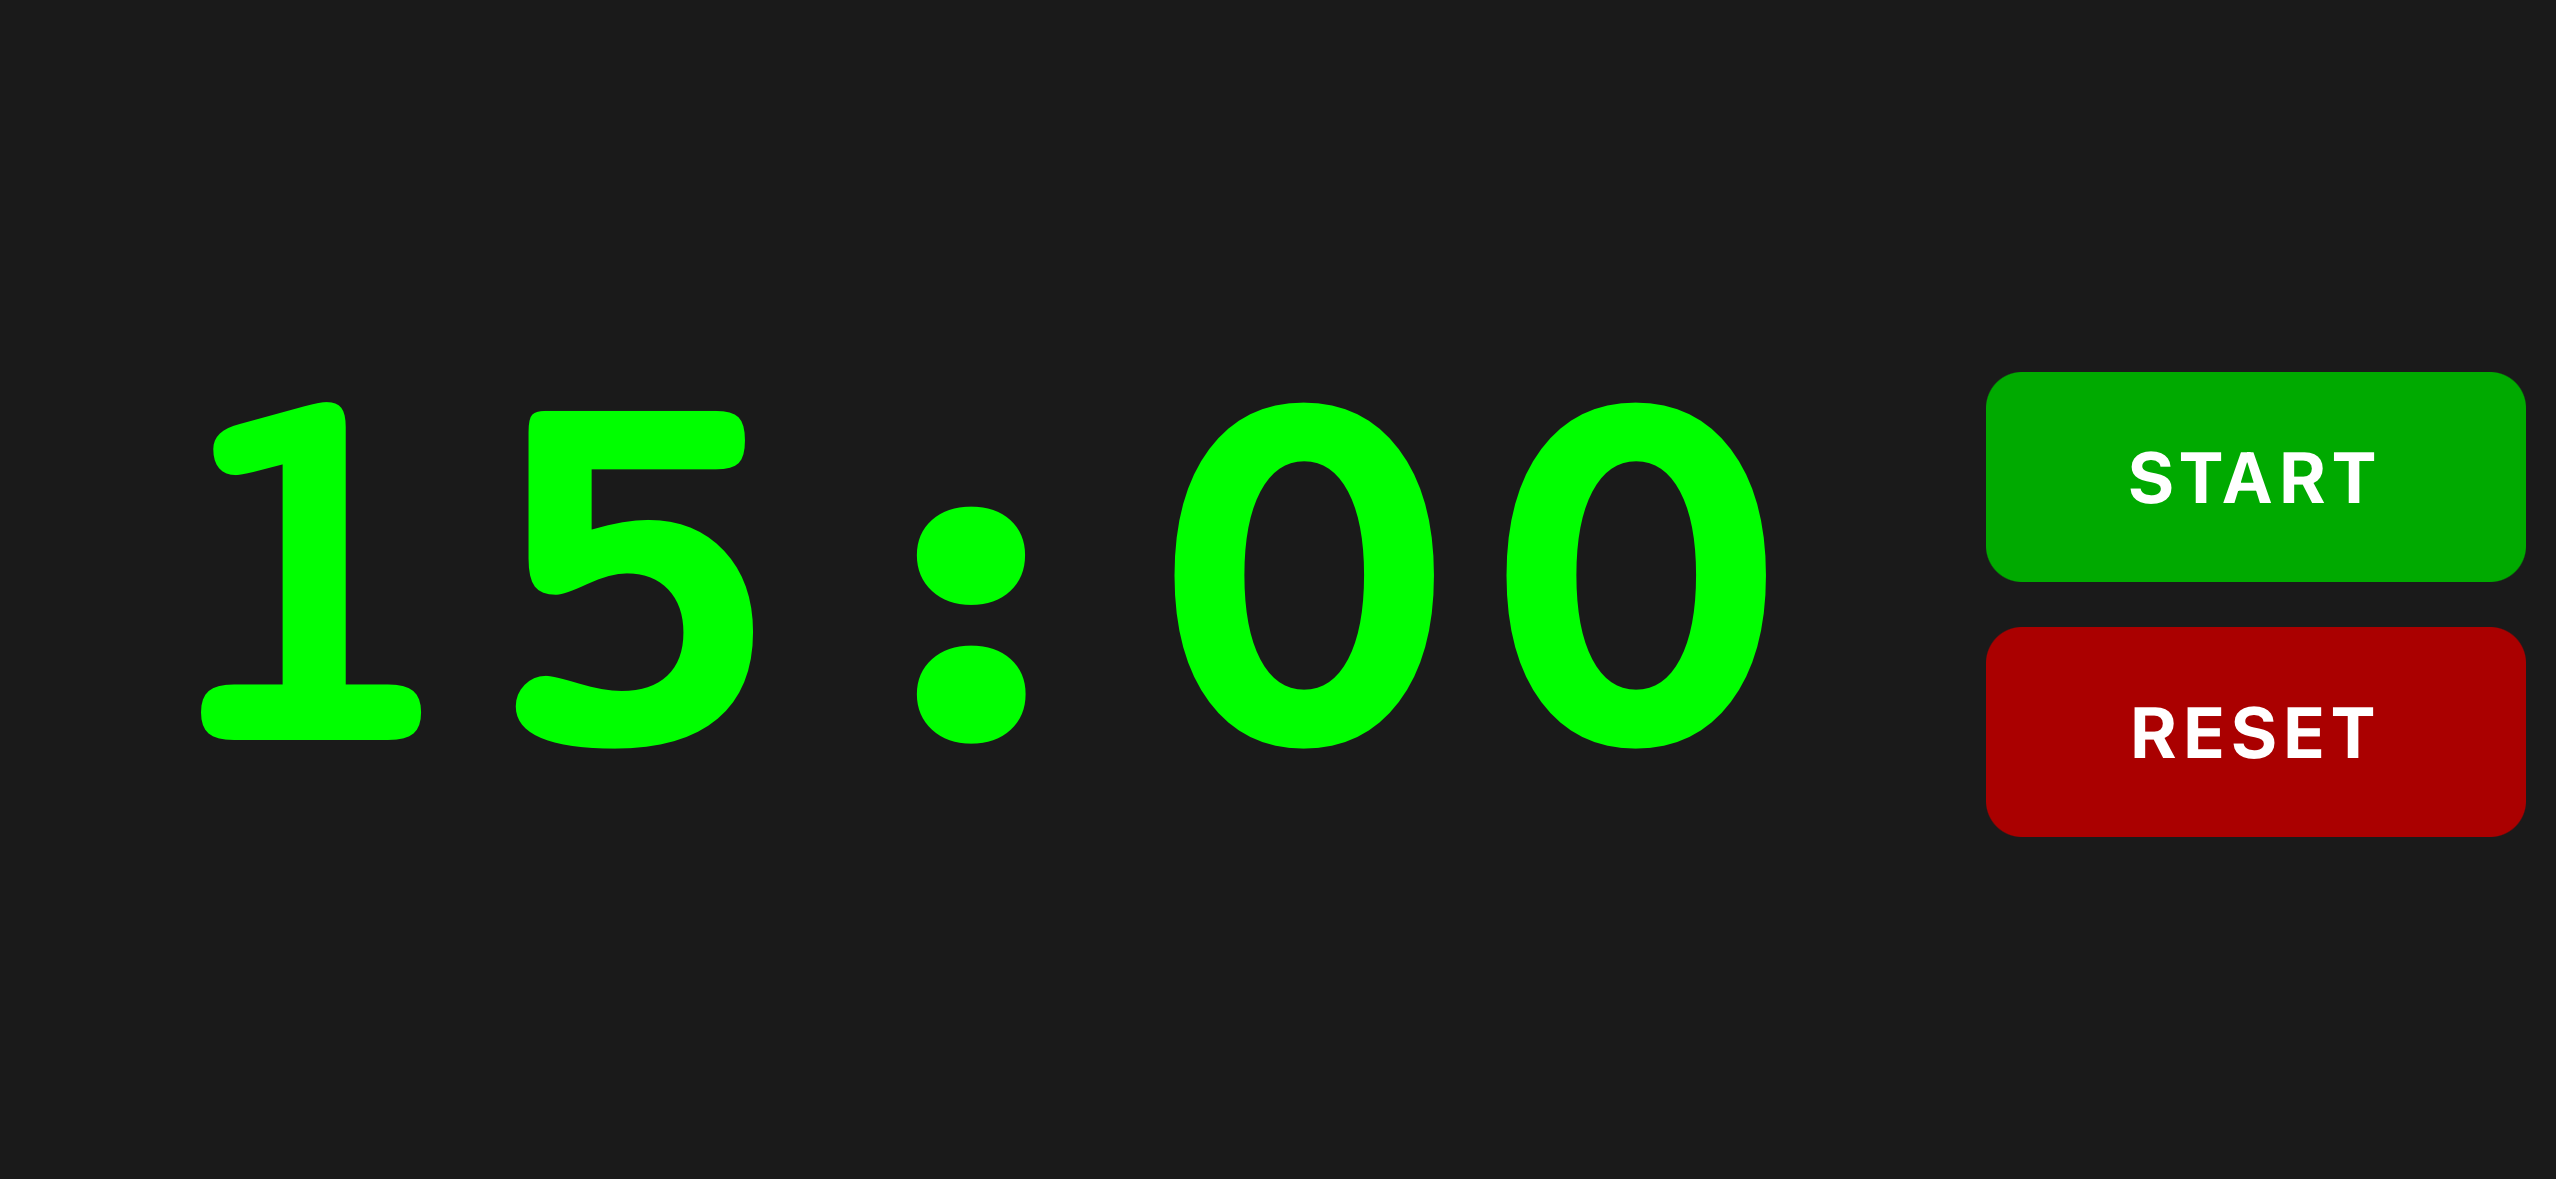
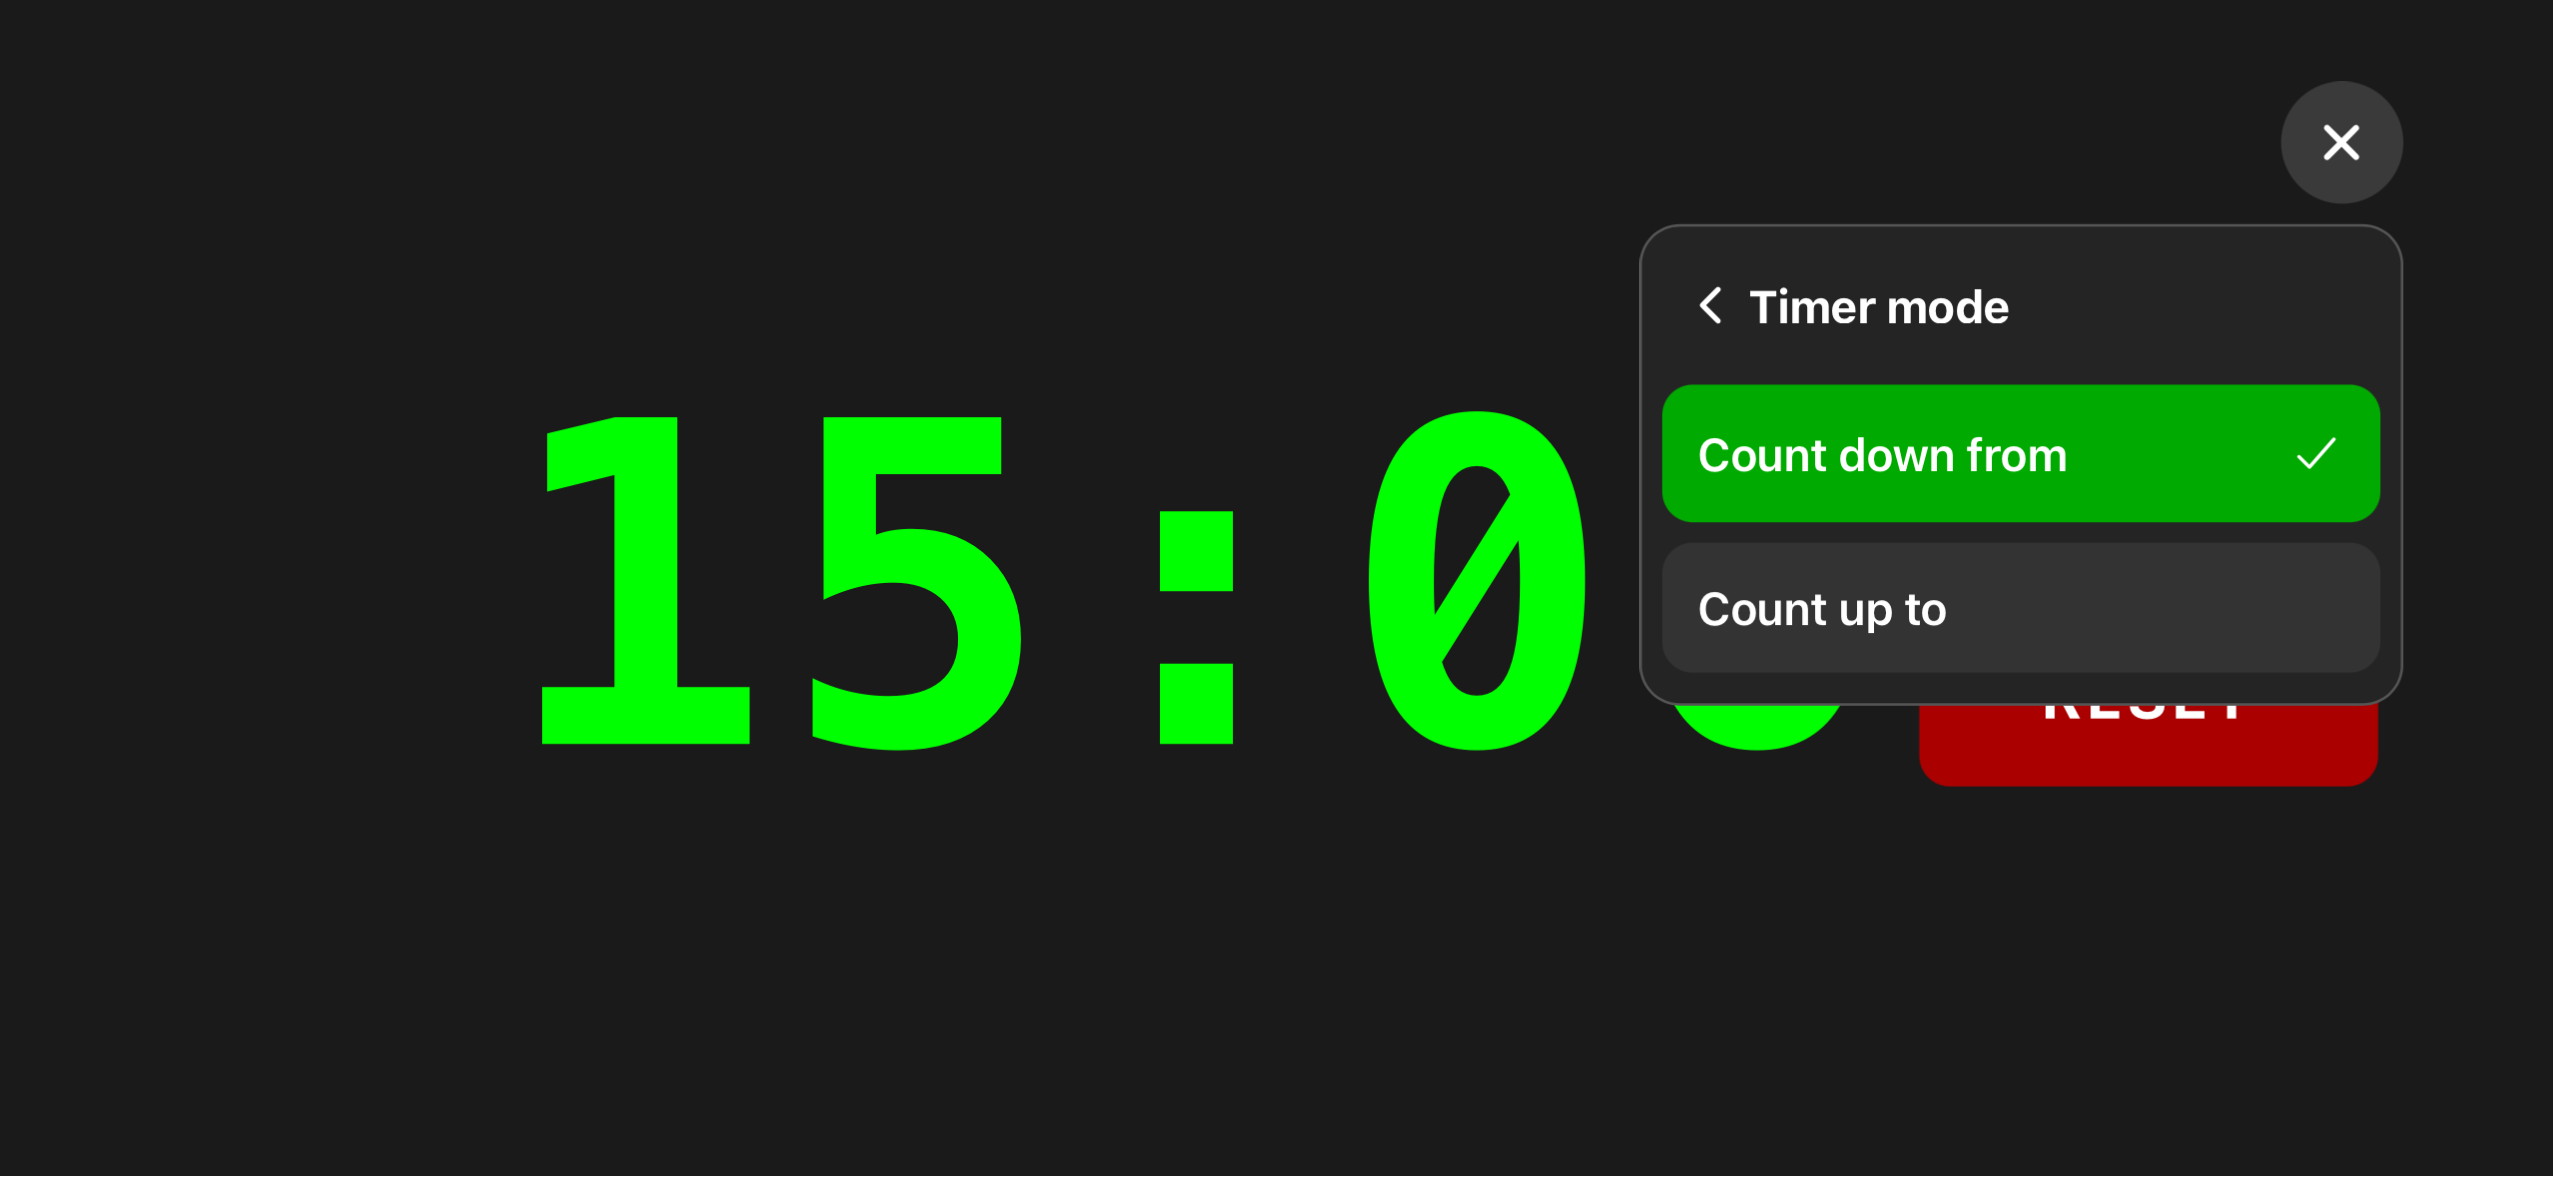
feat: add hero, settings, and count-up screenshots to homepage

diff --git a/index.html b/index.html
@@ -16,7 +16,7 @@
   <link rel="manifest" href="/favicon/site.webmanifest" />
   <meta property="og:title" content="Big Improv Timer" />
   <meta property="og:description" content="A full-screen rehearsal timer built for improv teams. Count up or down, and see your time from across the room." />
-  <meta property="og:image" content="https://bigimprovtimer.xyz/assets/green.PNG" />
+  <meta property="og:image" content="https://bigimprovtimer.xyz/assets/hero.PNG" />
   <meta property="og:url" content="https://bigimprovtimer.xyz/" />
   <meta property="og:type" content="website" />
   <meta name="twitter:card" content="summary_large_image" />
@@ -62,7 +62,7 @@
         <div class="hero-visual">
           <div class="screenshot-frame">
             <img
-              src="assets/green.PNG"
+              src="assets/hero.PNG"
               alt="Big Improv Timer timer view with green background"
             />
           </div>
@@ -105,6 +105,20 @@
           Open the gear and pick the mode that fits your rehearsal. The label above the digits
           follows your choice.
         </p>
+        <div class="feature-shots">
+          <div class="screenshot-frame">
+            <img
+              src="assets/settings.PNG"
+              alt="Big Improv Timer settings menu with timer mode, countdown sound, and beep sound"
+            />
+          </div>
+          <div class="screenshot-frame">
+            <img
+              src="assets/count.PNG"
+              alt="Big Improv Timer mode picker showing Count down from and Count up to"
+            />
+          </div>
+        </div>
         <ul class="color-rules">
           <li>
             <span class="rule-text"><strong>Count down from</strong> – watch time remaining until a pulsing "DONE"</span>

diff --git a/styles.css b/styles.css
@@ -203,6 +203,12 @@ main {
   margin-bottom: 10px;
 }
 
+.screenshot-frame img {
+  width: 100%;
+  height: auto;
+  display: block;
+}
+
 
 /* Screenshots */
 
@@ -263,6 +269,23 @@ main {
 
 .rule-text code {
   font-size: 0.85rem;
+}
+
+.feature-shots {
+  display: grid;
+  grid-template-columns: repeat(2, minmax(0, 1fr));
+  gap: 16px;
+  margin: 0 0 22px;
+}
+
+.feature-shots .screenshot-frame {
+  margin-bottom: 0;
+}
+
+.feature-shots img {
+  width: 100%;
+  height: auto;
+  display: block;
 }
 
 
@@ -378,6 +401,10 @@ main {
 
   .hero-visual {
     margin-top: 18px;
+  }
+
+  .feature-shots {
+    grid-template-columns: minmax(0, 1fr);
   }
 
   .header-inner {
